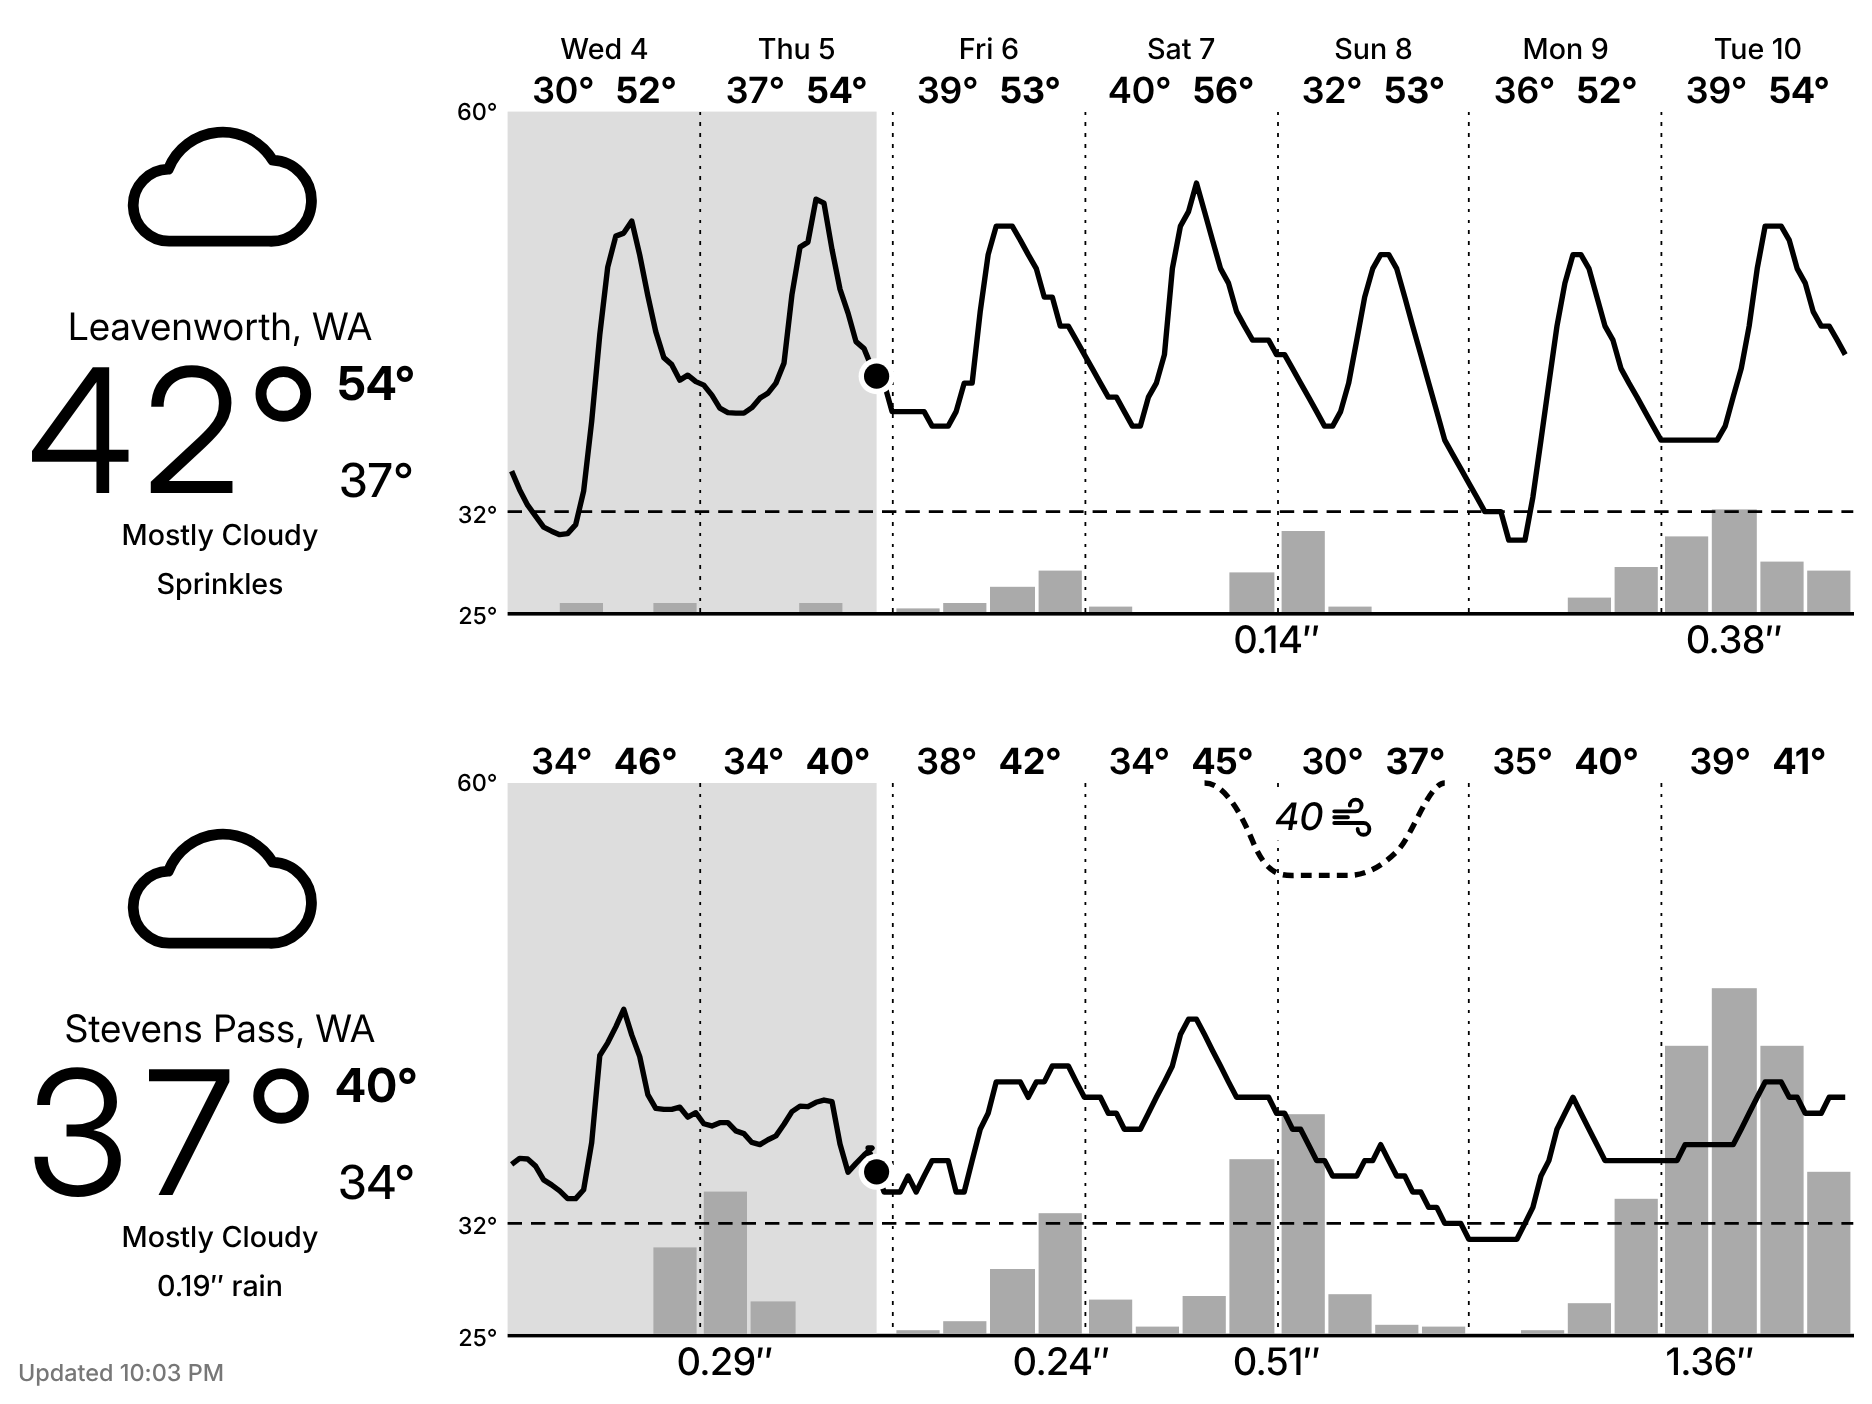
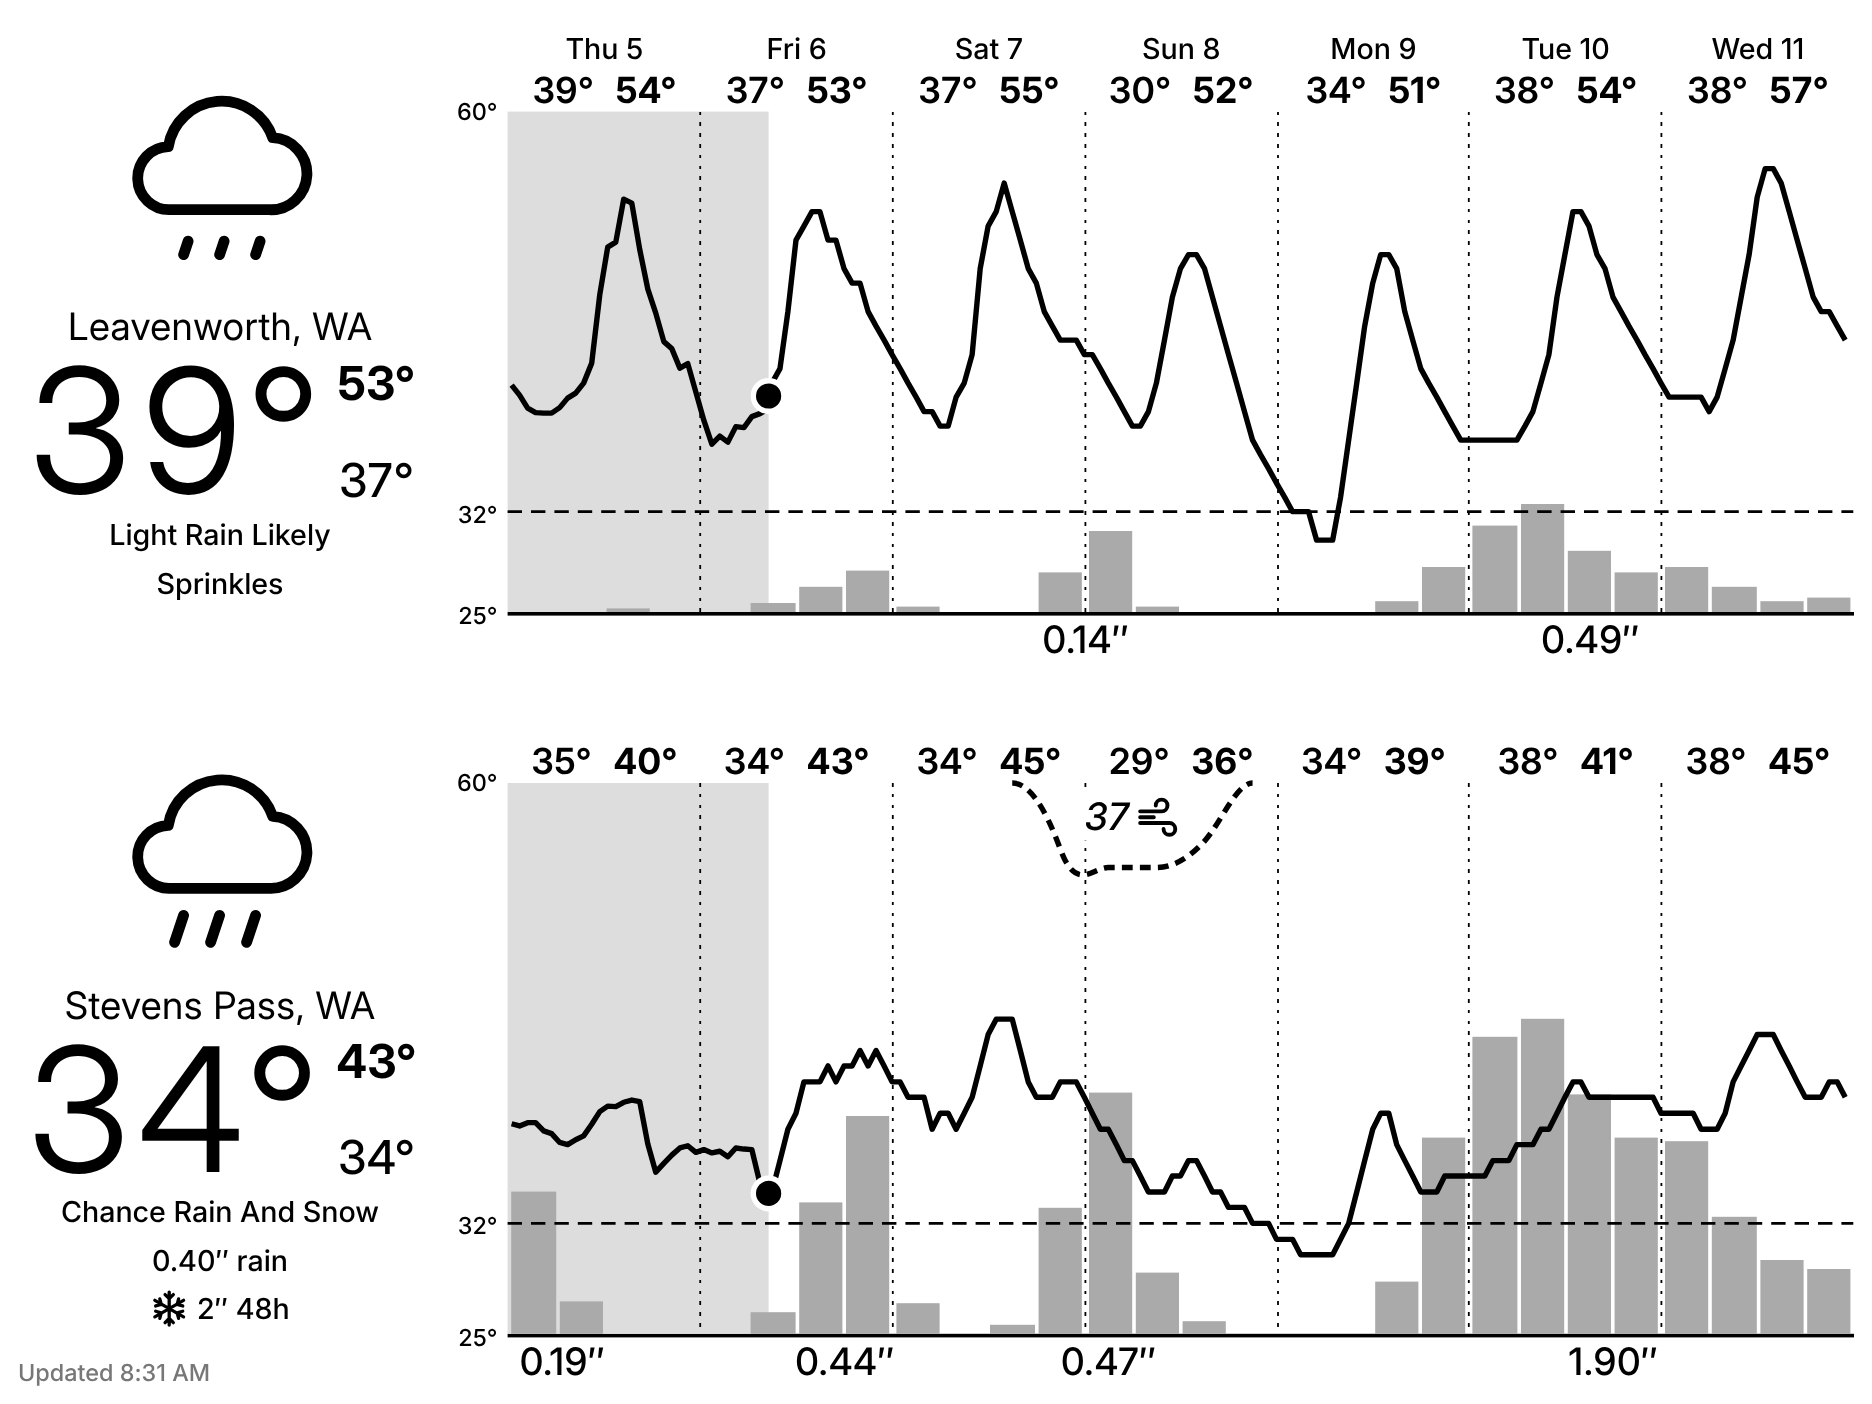
Fresh snow: a snowflake instead of "New snow", and no empty 24h total
Claude-Session: https://claude.ai/code/session_018zBtTfGxqR6ysBZYHYeVbJ

diff --git a/server/forecast/glance.go b/server/forecast/glance.go
@@ -21,7 +21,7 @@ type Glance struct {
 	OutlookName string  `json:"outlook_name"`
 	Days        []Day   `json:"days"`
 	TodayIndex  int     `json:"today_index"` // days[today_index] is today; earlier days are measured
-	FreshSnow   string  `json:"fresh_snow"`  // measured new snow, e.g. "New snow 3″ 24h · 7″ 48h", or ""
+	FreshSnow   string  `json:"fresh_snow"`  // measured new snow, e.g. "3″ 24h · 7″ 48h" or "7″ 48h", or ""
 	Alerts      []Alert `json:"alerts"`
 	Scale       Scale   `json:"scale"`
 	Chart       *Chart  `json:"chart,omitempty"`
@@ -341,7 +341,11 @@ func freshSnow(o *observed, now time.Time, units string) string {
 		}
 		return fmt.Sprintf("%.0f″", in)
 	}
-	return fmt.Sprintf("New snow %s 24h · %s 48h", f(d1), f(d2))
+	// The 24-hour total only when some fell in the last day (and it rounds to something).
+	if f(d1) == f(0) {
+		return f(d2) + " 48h"
+	}
+	return f(d1) + " 24h · " + f(d2) + " 48h"
 }
 
 func trend(hourly []Period, hour *Period, nowTemp int) string {

diff --git a/server/forecast/glance_test.go b/server/forecast/glance_test.go
@@ -653,7 +653,7 @@ func TestObservedRealStevensWeek(t *testing.T) {
 
 	// A chart starting the day before Oct 29 noon: Oct 28 is measured, outlined bars and all.
 	// It all fell before Oct 28 noon.
-	if f := freshSnow(o, noon29, "us"); f != "New snow 0″ 24h · 7″ 48h" {
+	if f := freshSnow(o, noon29, "us"); f != "7″ 48h" {
 		t.Errorf("freshSnow = %q", f)
 	}
 	var st *stationSeries

diff --git a/README.md b/README.md
@@ -15,7 +15,7 @@ one above the other. For each location you get:
   for stronger gusts (the bottom of its band is 60 mph), with the spell's peak gust in it
 - with station data (see below), the chart starts yesterday: the shaded past shows measured temperatures, and
   measured snow and rain, so you can tell what actually fell from what is forecast
-- at places with snow-depth sensors, the new snow measured in the last 24 and 48 hours (e.g. "New snow 4″ 24h · 9″
+- at places with snow-depth sensors, the new snow measured in the last 24 and 48 hours (e.g. "❄ 4″ 24h · 9″
   48h"), the number that says whether the skiing is good
 
 Defaults to Leavenworth, WA and Stevens Pass, WA. Shown on a TRMNL X (1872×1404, 16 grays):
